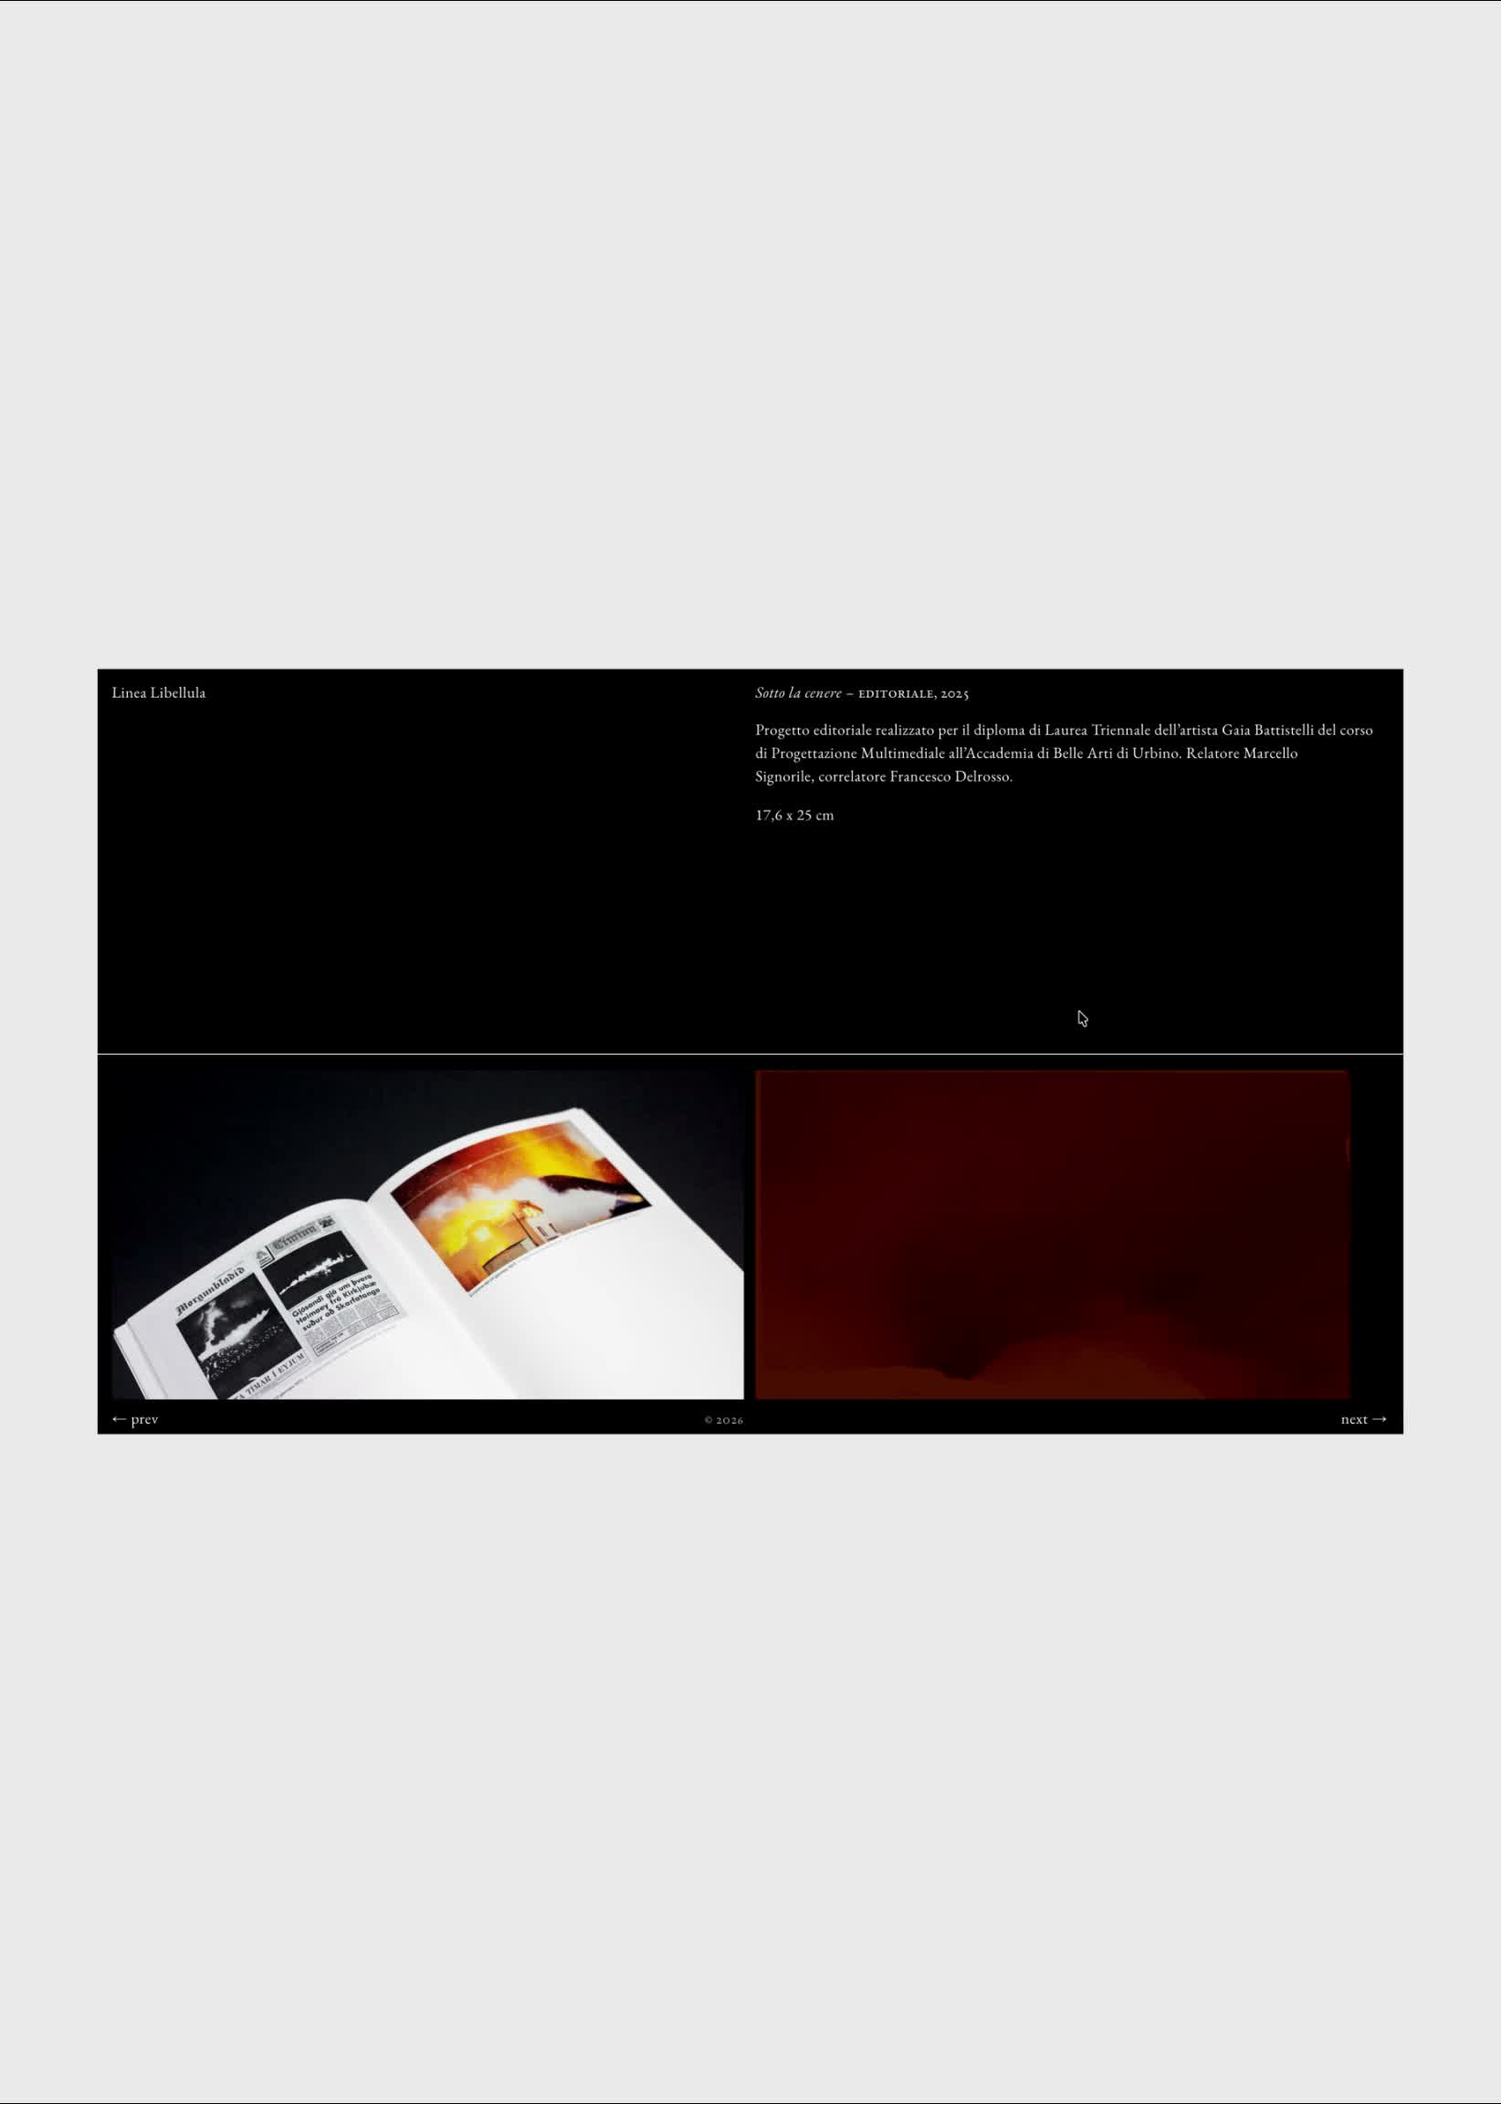
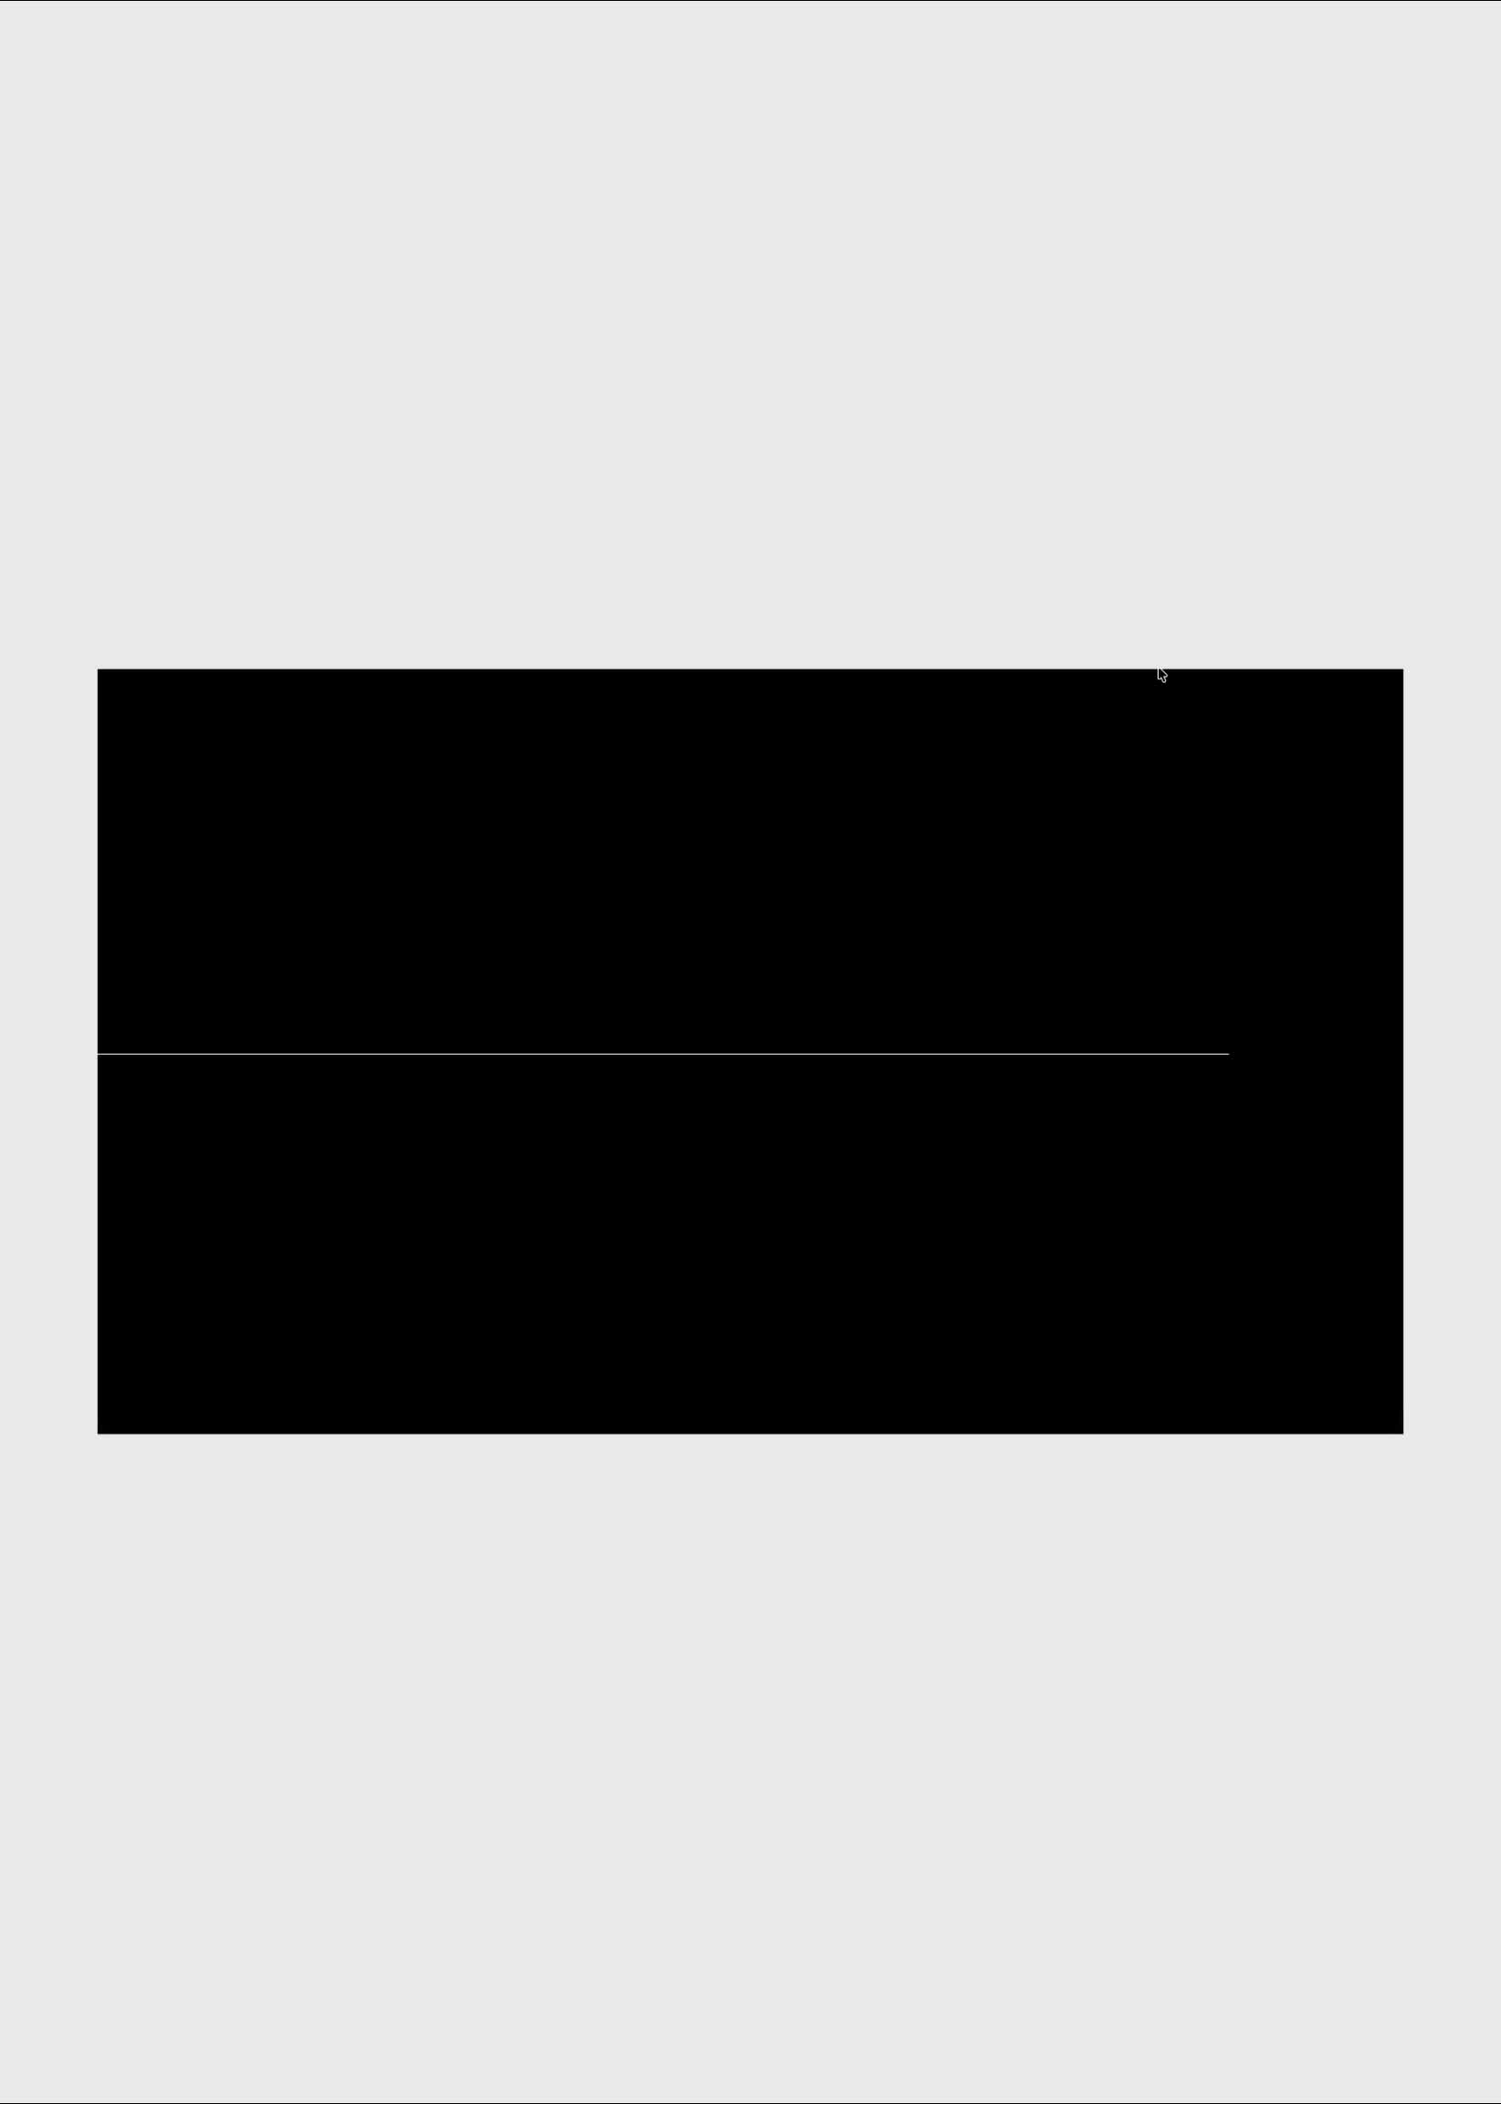
desktop update

Changed region(s): [[0.062, 0.5, 0.8996, 0.6875], [0.4964, 0.3438, 0.8686, 0.375]]

diff --git a/src/components/AboutContent.jsx b/src/components/AboutContent.jsx
@@ -2,98 +2,101 @@ import { about, capabilities, workExperience, education, workshopsLecturesExhibi
 
 export default function AboutContent() {
     return (
-        <div id="About" className="flex flex-col gap-05 px-1 pb-10">
-            <div data-fadein className='pb-2'>
-                {about.map((content) => (
-                    <p key={content.description} className='text-base'>
-                        {Array.isArray(content.description)
-                            ? content.description.map((item, index) => (
-                                <span key={index}>
-                                    {index > 0 && <br />}
-                                    {item}
-                                </span>
-                            ))
-                            : content.description}
-                    </p>
-                ))}
-            </div>
-            <div data-fadein id='aboutLists' className='flex flex-col gap-2'>
-                <div className='flex flex-col gap-05'>
-                    <div>
-                        <p className="text-base">Capabilities</p>
-                    </div>
-                    <div id="Capabilities" className="flex flex-col gap-0 border-top">
-                        {capabilities
-                            .map((capability) => (
-                                <div key={capability.list} className="pt-05">
-                                    <div className="flex flex-col gap-0">
-                                        <p className="text-base">
-                                            {Array.isArray(capability.list)
-                                                ? capability.list.map((item, index) => (
-                                                    <span key={index}>
-                                                        {index > 0 && <br />}
-                                                        {item}
-                                                    </span>
-                                                ))
-                                                : capability.list}
-                                        </p>
-                                    </div>
-                                </div>
-                            ))}
-                    </div>
+        <div className='grid grid-cols-8 gap-0-4'>
+
+            <div id="About" className="col-span-8 md:col-span-2 flex flex-col gap-05 px-1 pb-10">
+                <div data-fadein className='pb-2'>
+                    {about.map((content) => (
+                        <p key={content.description} className='text-base'>
+                            {Array.isArray(content.description)
+                                ? content.description.map((item, index) => (
+                                    <span key={index}>
+                                        {index > 0 && <br />}
+                                        {item}
+                                    </span>
+                                ))
+                                : content.description}
+                        </p>
+                    ))}
                 </div>
-                <div className='flex flex-col gap-05'>
-                    <div>
-                        <p className="text-base">Work Experience</p>
-                    </div>
-                    <div id="WorksExperience" className="flex flex-col gap-0 border-top">
-                        {workExperience
-                            .filter((item) => item.published)
-                            .map((item) => (
-                                <div key={item.order} className="pt-05">
-                                    <div className="flex flex-col gap-0">
-                                        <p className="text-base">{item.year}</p>
-                                        <p className="text-base">{item.title}</p>
-                                        <p className="text-base">{item.location}</p>
+                <div data-fadein id='aboutLists' className='flex flex-col gap-2'>
+                    <div className='flex flex-col gap-05'>
+                        <div>
+                            <p className="text-base">Capabilities</p>
+                        </div>
+                        <div id="Capabilities" className="flex flex-col gap-0 border-top">
+                            {capabilities
+                                .map((capability) => (
+                                    <div key={capability.list} className="pt-05">
+                                        <div className="flex flex-col gap-0">
+                                            <p className="text-base">
+                                                {Array.isArray(capability.list)
+                                                    ? capability.list.map((item, index) => (
+                                                        <span key={index}>
+                                                            {index > 0 && <br />}
+                                                            {item}
+                                                        </span>
+                                                    ))
+                                                    : capability.list}
+                                            </p>
+                                        </div>
                                     </div>
-                                </div>
-                            ))}
+                                ))}
+                        </div>
                     </div>
-                </div>
-                <div className='flex flex-col gap-05'>
-                    <div>
-                        <p className="text-base">Education</p>
-                    </div>
-                    <div id="Education" className="flex flex-col gap-0 border-top">
-                        {education
-                            .filter((item) => item.published)
-                            .map((item) => (
-                                <div key={item.order} className="pt-05">
-                                    <div className="flex flex-col gap-0">
-                                        <p className="text-base">{item.year}</p>
-                                        <p className="text-base">{item.title}</p>
-                                        <p className="text-base">{item.location}</p>
+                    <div className='flex flex-col gap-05'>
+                        <div>
+                            <p className="text-base">Work Experience</p>
+                        </div>
+                        <div id="WorksExperience" className="flex flex-col gap-0 border-top">
+                            {workExperience
+                                .filter((item) => item.published)
+                                .map((item) => (
+                                    <div key={item.order} className="pt-05">
+                                        <div className="flex flex-col gap-0">
+                                            <p className="text-base">{item.year}</p>
+                                            <p className="text-base">{item.title}</p>
+                                            <p className="text-base">{item.location}</p>
+                                        </div>
                                     </div>
-                                </div>
-                            ))}
+                                ))}
+                        </div>
                     </div>
-                </div>
-                <div className='flex flex-col gap-05'>
-                    <div>
-                        <p className="text-base">Workshop, Lectures, Exhibitions </p>
-                    </div>
-                    <div id="workshopsLecturesExhibitions" className="flex flex-col gap-0 border-top">
-                        {workshopsLecturesExhibitions
-                            .filter((item) => item.published)
-                            .map((item) => (
-                                <div key={item.order} className="pt-05">
-                                    <div className="flex flex-col gap-0">
-                                        <p className="text-base">{item.year}</p>
-                                        <p className="text-base">{item.title}</p>
-                                        <p className="text-base">{item.details}</p>
+                    <div className='flex flex-col gap-05'>
+                        <div>
+                            <p className="text-base">Education</p>
+                        </div>
+                        <div id="Education" className="flex flex-col gap-0 border-top">
+                            {education
+                                .filter((item) => item.published)
+                                .map((item) => (
+                                    <div key={item.order} className="pt-05">
+                                        <div className="flex flex-col gap-0">
+                                            <p className="text-base">{item.year}</p>
+                                            <p className="text-base">{item.title}</p>
+                                            <p className="text-base">{item.location}</p>
+                                        </div>
                                     </div>
-                                </div>
-                            ))}
+                                ))}
+                        </div>
+                    </div>
+                    <div className='flex flex-col gap-05'>
+                        <div>
+                            <p className="text-base">Workshop, Lectures, Exhibitions </p>
+                        </div>
+                        <div id="workshopsLecturesExhibitions" className="flex flex-col gap-0 border-top">
+                            {workshopsLecturesExhibitions
+                                .filter((item) => item.published)
+                                .map((item) => (
+                                    <div key={item.order} className="pt-05">
+                                        <div className="flex flex-col gap-0">
+                                            <p className="text-base">{item.year}</p>
+                                            <p className="text-base">{item.title}</p>
+                                            <p className="text-base">{item.details}</p>
+                                        </div>
+                                    </div>
+                                ))}
+                        </div>
                     </div>
                 </div>
             </div>

diff --git a/src/assets/css/style.css b/src/assets/css/style.css
@@ -94,6 +94,15 @@ html {
     position: fixed;
 }
 
+.top-0 {
+    top: 0;
+
+}
+
+.left-0 {
+    left: 0;
+}
+
 .bottom-0 {
     bottom: 0;
 }
@@ -236,6 +245,27 @@ p {
     grid-template-columns: 1fr 1fr 1fr 1fr;
 }
 
+.grid-cols-8 {
+    grid-template-columns: 1fr 1fr 1fr 1fr 1fr 1fr 1fr 1fr;
+}
+
+.col-span-1 {
+    grid-column: span 1;
+    grid-row: span 1;
+}
+
+.col-span-2 {
+    grid-column: span 2;
+    grid-row: span 2;
+
+}
+
+.col-span-4 {
+    grid-column: span 4;
+    grid-row: span 4;
+
+}
+
 a {
     text-decoration: none;
     color: #434343;
@@ -296,6 +326,11 @@ a {
     /* 6px */
 }
 
+.pt-6 {
+    padding-top: 6rem;
+    /* 60px */
+}
+
 .pb-05 {
     /* 6px */
     padding-bottom: 0.6rem;
@@ -309,6 +344,11 @@ a {
 .pb-10 {
     /* 100px */
     padding-bottom: 10rem;
+}
+
+.pb-120px {
+    /* 120px */
+    padding-bottom: 12rem;
 }
 
 .py-05 {
@@ -406,6 +446,14 @@ a {
     opacity: 0;
 }
 
+.relative {
+    position: relative;
+}
+
+.absolute {
+    position: absolute;
+}
+
 .sticky {
     position: sticky;
     top: 0;
@@ -417,9 +465,9 @@ a {
     }
 
     .gallery-desktop {
-        display: flex;
-        flex-direction: row;
-        flex-wrap: wrap;
+        display: grid;
+        grid-template-columns: 1fr 1fr 1fr 1fr 1fr 1fr 1fr 1fr;
+        column-gap: 0.4rem;
     }
 
     .gallery-desktop-item {
@@ -428,13 +476,74 @@ a {
         object-fit: cover;
     }
 
+    .md\:pb-1 {
+        padding-bottom: 1.2rem;
+    }
+
+    .md\:pb-2 {
+        padding-bottom: 1.8rem;
+    }
+    .md\:pb-120px {
+        padding-bottom: 12rem;
+    }
+    .md\:col-span-1 {
+        grid-column: span 1;
+    }
+    .md\:col-span-2 {
+        grid-column: span 2;
+    }
+
     .md\:gap-2-7 {
         column-gap: 2.7rem;
         row-gap: 2.7rem;
     }
 
+    .md\:gap-0-4 {
+        column-gap: 0.4rem;
+        row-gap: 0.4rem;
+    }
+
     .md\:gap-4 {
         column-gap: 3rem;
         row-gap: 3rem;
+    }
+
+    .md\:hidden {
+        display: none;
+    }
+
+    .md\:grid {
+        display: grid;
+    }
+
+    .md\:flex {
+        display: flex;
+    }
+
+    .md\:block {
+        display: block;
+    }
+
+    .md\:fixed {
+        position: fixed;
+    }
+
+    .desktop-nav {
+        position: fixed;
+        top: 0.6rem;
+        left: 0;
+        display: grid;
+        grid-template-columns: repeat(8, minmax(0, 1fr));
+        column-gap: 0.4rem;
+        width: 100%;
+        padding-left: 1rem;
+        padding-right: 1rem;
+        pointer-events: none;
+        z-index: 10;
+    }
+
+    .desktop-nav>div {
+        grid-column: 5;
+        pointer-events: auto;
     }
 }

diff --git a/src/components/WorksOverview.jsx b/src/components/WorksOverview.jsx
@@ -10,7 +10,7 @@ export default function WorksOverview({ projects }) {
                         <article data-fadein key={project.id} className='flex flex-col gap-05 pb-2 border-bottom'>
                             <ProjectGallery media={project.media} />
                             <div
-                                className='grid grid-cols-2 grid-items-start gap-1 md:gap-0'>
+                                className='grid grid-cols-2 grid-items-start gap-1 md:gap-0-4'>
                                 <div id='LeftCol' className="col-span-1 flex flex-row gap-1 md:gap-0">
                                     <div className='pr-36px'>
                                         <p className="text-base">

diff --git a/src/components/WorksIndex.jsx b/src/components/WorksIndex.jsx
@@ -3,7 +3,7 @@ export default function WorksIndex({ projects }) {
         <div className="flex flex-col gap-0">
             {projects.map((project) => {
                 const content = (
-                    <div className="grid grid-cols-2 grid-items-start gap-1 md:gap-4">
+                    <div className="grid grid-cols-2 grid-items-start gap-1 md:gap-0-4">
                         <div className="col-span-1 flex flex-row gap-1">
                             <div className="pr-36px">
                                 <p className="text-base">

diff --git a/src/components/ProjectGallery.jsx b/src/components/ProjectGallery.jsx
@@ -109,7 +109,7 @@ export default function ProjectGallery({ media }) {
                     )}
                 </button>
             </div>
-            <div className="gallery-desktop gap-05">
+            <div className="gallery-desktop">
                 {media.map((m) => (
                     <MediaThumb key={m.src} item={m} />
                 ))}
